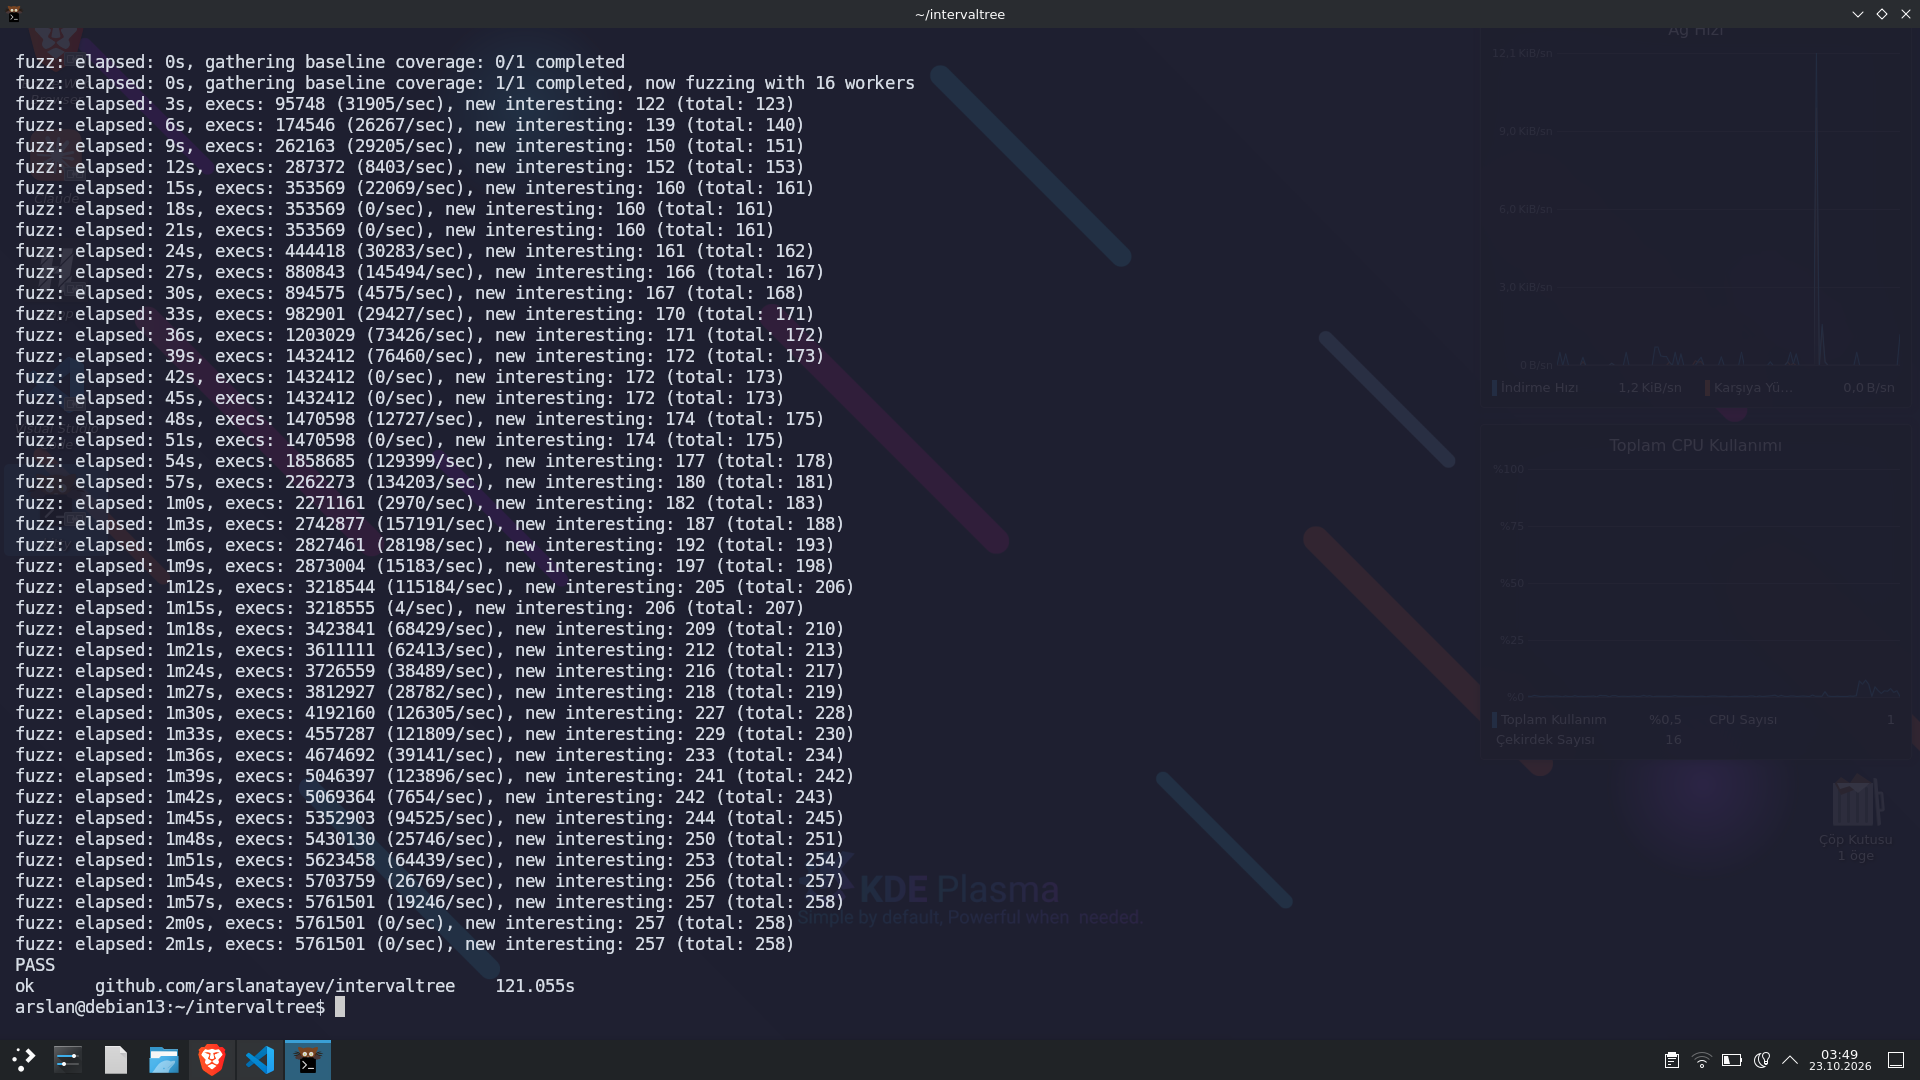
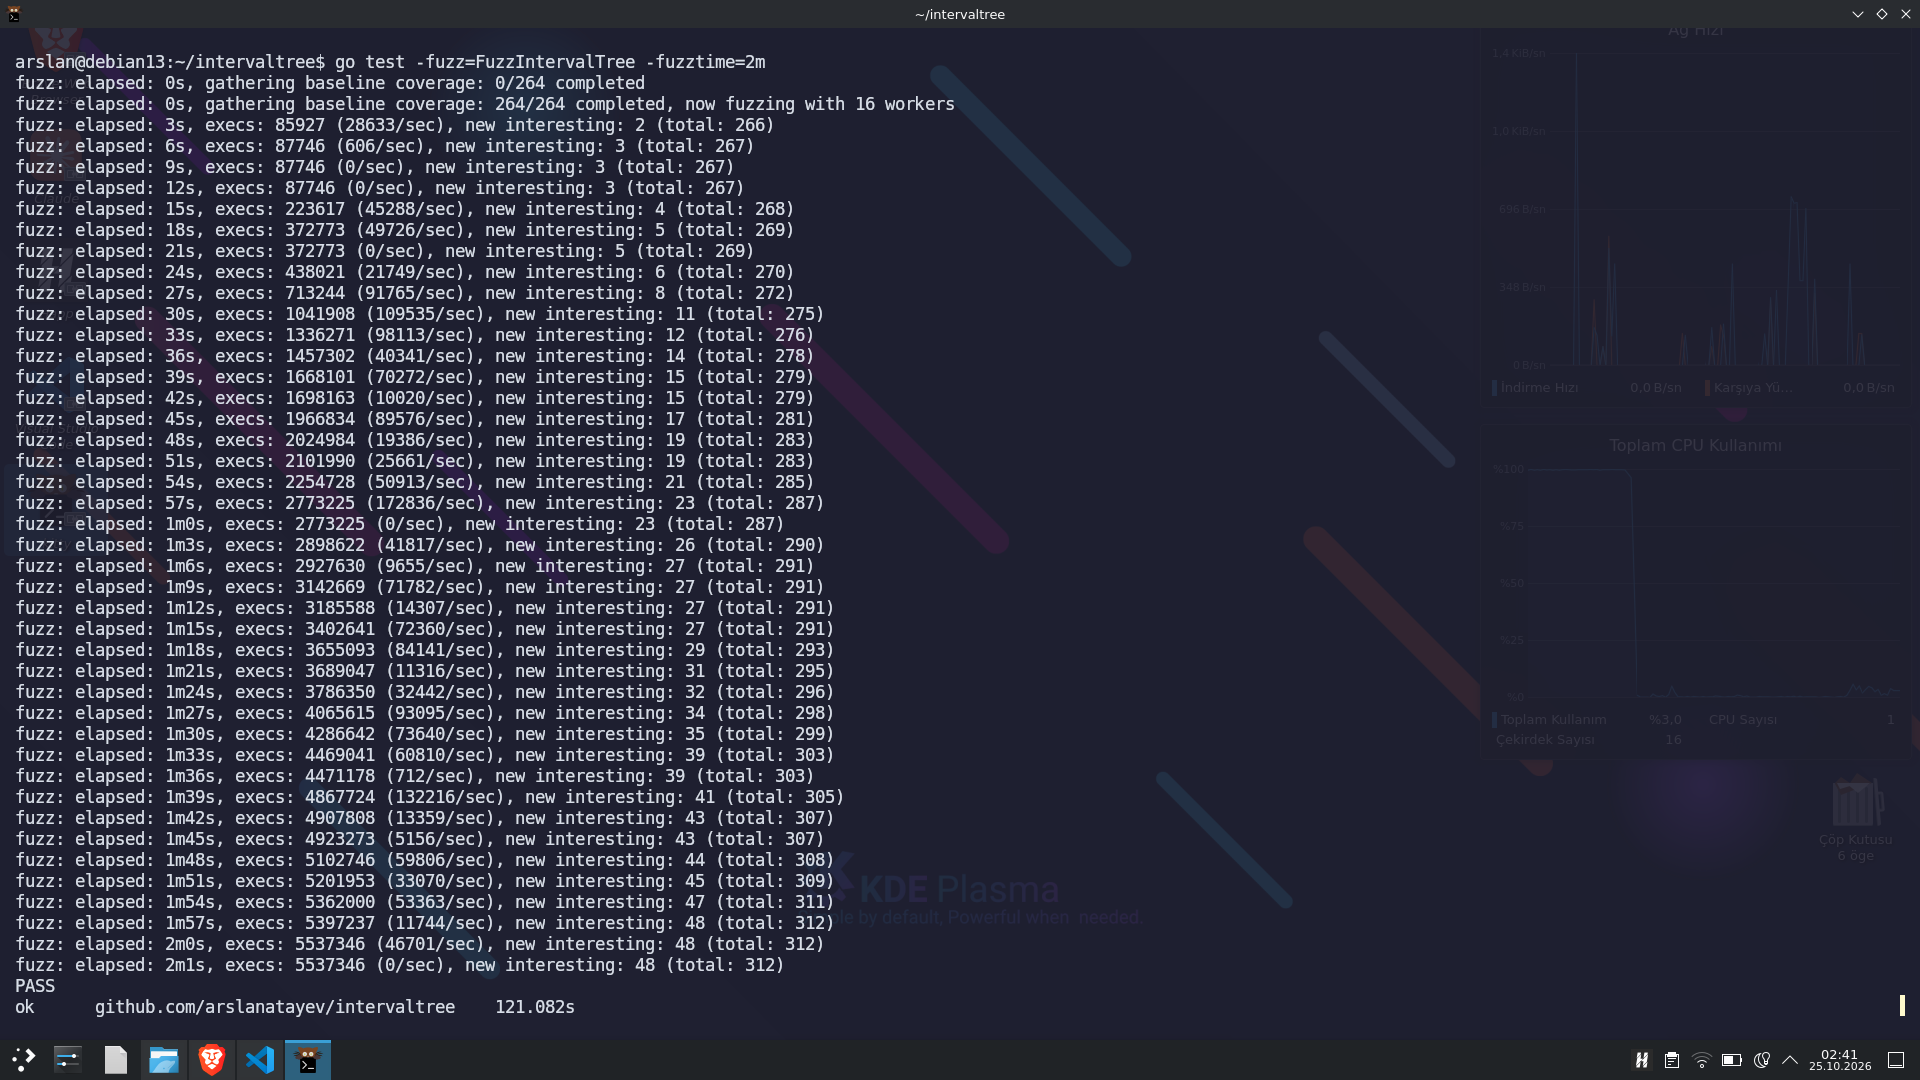
refactor: introduce generic Interval[K] struct and streamline interval handling

Changed region(s): [[0.0, 0.0306, 0.5, 0.9472]]

diff --git a/search.go b/search.go
@@ -2,16 +2,16 @@ package intervaltree
 
 // ExactMatch traverses the tree to determine if an interval matching [start, end] exactly exists.
 func (t *IntervalTree[K]) ExactMatch(start, end K) bool {
+	target := Interval[K]{
+		Start: start,
+		End:   end,
+	}
 	currentIdx := t.RootIdx
 	nodesLen := uint32(len(t.Nodes))
 
 	for currentIdx != noIdx {
-		if currentIdx >= nodesLen {
-			return false
-		}
-
 		node := &t.Nodes[currentIdx]
-		cmp := t.cmpInterval(start, end, node.Start, node.End)
+		cmp := t.cmpIntervals(target, node.Interval)
 		if cmp < 0 {
 			currentIdx = node.LeftIdx
 		} else if cmp > 0 {
@@ -63,17 +63,16 @@ func (t *IntervalTree[K]) Covers(start, end K) bool {
 }
 
 // FindOverlaps searches the tree and returns all intervals that overlap with the query range [start, end].
-func (t *IntervalTree[K]) FindOverlaps(start, end K) (starts []K, ends []K) {
+func (t *IntervalTree[K]) FindOverlaps(start, end K) (intervals []Interval[K]) {
 	if t.RootIdx == noIdx {
-		return starts, ends
+		return intervals
 	}
 
 	var stack [64]uint32
 	stack[0] = t.RootIdx
 	stackIdx := 1
 
-	starts = make([]K, 0, 8)
-	ends = make([]K, 0, 8)
+	intervals = make([]Interval[K], 0, 8)
 
 	for stackIdx > 0 {
 		stackIdx--
@@ -85,8 +84,7 @@ func (t *IntervalTree[K]) FindOverlaps(start, end K) (starts []K, ends []K) {
 		}
 
 		if t.Cmp(node.Start, end) <= 0 && t.Cmp(start, node.End) <= 0 {
-			starts = append(starts, node.Start)
-			ends = append(ends, node.End)
+			intervals = append(intervals, node.Interval)
 		}
 
 		if t.Cmp(node.Start, end) <= 0 && node.RightIdx != noIdx {
@@ -100,19 +98,18 @@ func (t *IntervalTree[K]) FindOverlaps(start, end K) (starts []K, ends []K) {
 		}
 	}
 
-	return starts, ends
+	return intervals
 }
 
-// All traverses the tree in-order and returns two parallel slices containing the start and end keys of all active intervals.
+// All traverses the tree in-order and returns all active intervals containing the start and end keys.
 // It uses an iterative stack to achieve zero-allocation traversal without recursion overhead.
-func (t *IntervalTree[K]) All() (starts []K, ends []K) {
+func (t *IntervalTree[K]) All() (intervals []Interval[K]) {
 	if t.RootIdx == noIdx {
-		return nil, nil
+		return nil
 	}
 
 	capacity := len(t.Nodes) - len(t.FreeIndex)
-	starts = make([]K, 0, capacity)
-	ends = make([]K, 0, capacity)
+	intervals = make([]Interval[K], 0, capacity)
 
 	var stack [64]uint32
 	stackIdx := 0
@@ -128,13 +125,12 @@ func (t *IntervalTree[K]) All() (starts []K, ends []K) {
 		stackIdx--
 		currentIdx = stack[stackIdx]
 
-		starts = append(starts, t.Nodes[currentIdx].Start)
-		ends = append(ends, t.Nodes[currentIdx].End)
+		intervals = append(intervals, t.Nodes[currentIdx].Interval)
 
 		currentIdx = t.Nodes[currentIdx].RightIdx
 	}
 
-	return starts, ends
+	return intervals
 }
 
 // IsEmpty returns true if the tree contains no intervals.
@@ -148,6 +144,6 @@ func (t *IntervalTree[K]) Len() int {
 }
 
 // Stabs returns all intervals that contain the given point.
-func (t *IntervalTree[K]) Stabs(point K) (starts, ends []K) {
+func (t *IntervalTree[K]) Stabs(point K) (intervals []Interval[K]) {
 	return t.FindOverlaps(point, point)
 }

diff --git a/fuzz_test.go b/fuzz_test.go
@@ -146,17 +146,17 @@ func FuzzIntervalTree(f *testing.F) {
 				}
 
 			case 4: // FIND OVERLAPS
-				starts, ends := tree.FindOverlaps(s, e)
+				overlaps := tree.FindOverlaps(s, e)
 				refOverlaps := ref.findOverlaps(s, e)
 
-				if len(starts) != len(refOverlaps) {
-					t.Fatalf("FindOverlaps(%d, %d) size error: Tree=%d, Reference=%d", s, e, len(starts), len(refOverlaps))
+				if len(overlaps) != len(refOverlaps) {
+					t.Fatalf("FindOverlaps(%d, %d) size error: Tree=%d, Reference=%d", s, e, len(overlaps), len(refOverlaps))
 				}
 
 				// Sort overlapping intervals and verify
-				treeIntervals := make([][2]int, len(starts))
-				for i := range starts {
-					treeIntervals[i] = [2]int{starts[i], ends[i]}
+				treeIntervals := make([][2]int, len(overlaps))
+				for i := range overlaps {
+					treeIntervals[i] = [2]int{overlaps[i].Start, overlaps[i].End}
 				}
 				sort.Slice(treeIntervals, func(i, j int) bool {
 					if treeIntervals[i][0] != treeIntervals[j][0] {
@@ -178,15 +178,15 @@ func FuzzIntervalTree(f *testing.F) {
 				}
 
 			case 5: // ALL
-				starts, ends := tree.All()
+				overlaps := tree.All()
 				refAll := ref.all()
 
-				if len(starts) != len(refAll) {
-					t.Fatalf("All() element count mismatch: Tree=%d, Reference=%d", len(starts), len(refAll))
+				if len(overlaps) != len(refAll) {
+					t.Fatalf("All() element count mismatch: Tree=%d, Reference=%d", len(overlaps), len(refAll))
 				}
-				for i := range starts {
-					if starts[i] != refAll[i][0] || ends[i] != refAll[i][1] {
-						t.Fatalf("All() sorting/content mismatch at %d: Tree=[%d,%d], Reference=%v", i, starts[i], ends[i], refAll[i])
+				for i := range overlaps {
+					if overlaps[i].Start != refAll[i][0] || overlaps[i].End != refAll[i][1] {
+						t.Fatalf("All() sorting/content mismatch at %d: Tree=[%d,%d], Reference=%v", i, overlaps[i].Start, overlaps[i].End, refAll[i])
 					}
 				}
 			}
@@ -230,13 +230,13 @@ func verifyTreeInvariants(t *testing.T, tree *IntervalTree[int]) {
 		// 2. BST Ordering verification
 		if node.LeftIdx != noIdx {
 			left := tree.Nodes[node.LeftIdx]
-			if tree.cmpInterval(left.Start, left.End, node.Start, node.End) >= 0 {
+			if tree.cmpIntervals(left.Interval, node.Interval) >= 0 {
 				t.Fatalf("BST rule violation: Left child [%d, %d] >= Root [%d, %d]", left.Start, left.End, node.Start, node.End)
 			}
 		}
 		if node.RightIdx != noIdx {
 			right := tree.Nodes[node.RightIdx]
-			if tree.cmpInterval(right.Start, right.End, node.Start, node.End) <= 0 {
+			if tree.cmpIntervals(right.Interval, node.Interval) <= 0 {
 				t.Fatalf("BST rule violation: Right child [%d, %d] <= Root [%d, %d]", right.Start, right.End, node.Start, node.End)
 			}
 		}

diff --git a/interval.go b/interval.go
@@ -1,53 +1,60 @@
 package intervaltree
 
 // ComputeMerge finds overlapping intervals to remove and computes a single merged range for the new addition.
-func (t *IntervalTree[K]) ComputeMerge(start, end K) (delStarts, delEnds []K, mergedStart, mergedEnd K, isIntersect bool) {
-	starts, ends := t.FindOverlaps(t.Prev(start), t.Next(end))
+func (t *IntervalTree[K]) ComputeMerge(start, end K) (toDelete []Interval[K], merged Interval[K], isIntersect bool) {
+	toDelete = t.FindOverlaps(t.Prev(start), t.Next(end))
 
-	if len(starts) == 0 {
-		return nil, nil, start, end, false
+	if len(toDelete) == 0 {
+		return nil, merged, false
 	}
 
 	newStart := start
 	newEnd := end
 
-	for i := range starts {
-		if t.Cmp(starts[i], newStart) < 0 {
-			newStart = starts[i]
+	for _, interval := range toDelete {
+		if t.Cmp(interval.Start, newStart) < 0 {
+			newStart = interval.Start
 		}
-		if t.Cmp(ends[i], newEnd) > 0 {
-			newEnd = ends[i]
+		if t.Cmp(interval.End, newEnd) > 0 {
+			newEnd = interval.End
 		}
 	}
 
-	return starts, ends, newStart, newEnd, true
+	merged = Interval[K]{
+		Start: newStart,
+		End:   newEnd,
+	}
+
+	return toDelete, merged, true
 }
 
 // ComputeSplit detects intervals to delete and calculates any remaining fragment parts to be re-added.
-func (t *IntervalTree[K]) ComputeSplit(start, end K) (delStarts, delEnds, addStarts, addEnds []K, isIntersect bool) {
-	starts, ends := t.FindOverlaps(start, end)
+func (t *IntervalTree[K]) ComputeSplit(start, end K) (toDelete, toAdd []Interval[K], isIntersect bool) {
+	toDelete = t.FindOverlaps(start, end)
 
-	if len(starts) == 0 {
-		return nil, nil, nil, nil, false
+	if len(toDelete) == 0 {
+		return nil, nil, false
 	}
 
-	l := len(starts)
-	addStarts = make([]K, 0, l*2)
-	addEnds = make([]K, 0, l*2)
+	toAdd = make([]Interval[K], 0, len(toDelete)*2)
 
-	for i := range starts {
-		// left fragment: [starts[i], prev(start)]
-		if t.Cmp(starts[i], start) < 0 {
-			addStarts = append(addStarts, starts[i])
-			addEnds = append(addEnds, t.Prev(start))
+	for _, interval := range toDelete {
+		// left fragment: [interval.Start, prev(start)]
+		if t.Cmp(interval.Start, start) < 0 {
+			toAdd = append(toAdd, Interval[K]{
+				Start: interval.Start,
+				End:   t.Prev(start),
+			})
 		}
 
-		// right fragment: [next(end), ends[i]]
-		if t.Cmp(ends[i], end) > 0 {
-			addStarts = append(addStarts, t.Next(end))
-			addEnds = append(addEnds, ends[i])
+		// right fragment: [next(end), interval.End]
+		if t.Cmp(interval.End, end) > 0 {
+			toAdd = append(toAdd, Interval[K]{
+				Start: t.Next(end),
+				End:   interval.End,
+			})
 		}
 	}
 
-	return starts, ends, addStarts, addEnds, true
+	return toDelete, toAdd, true
 }

diff --git a/mutation.go b/mutation.go
@@ -7,10 +7,13 @@ package intervaltree
 func (t *IntervalTree[K]) Insert(start, end K) {
 	var newIndex uint32
 	var isLeft bool
+	target := Interval[K]{
+		Start: start,
+		End:   end,
+	}
 
 	newNode := Node[K]{
-		Start:     start,
-		End:       end,
+		Interval:  target,
 		MaxEnd:    end,
 		Height:    1,
 		LeftIdx:   noIdx,
@@ -27,7 +30,7 @@ func (t *IntervalTree[K]) Insert(start, end K) {
 	// BST Traversal
 	currentIdx := t.RootIdx
 	for {
-		cmp := t.cmpInterval(start, end, t.Nodes[currentIdx].Start, t.Nodes[currentIdx].End)
+		cmp := t.cmpIntervals(target, t.Nodes[currentIdx].Interval)
 		if cmp < 0 {
 			if t.Nodes[currentIdx].LeftIdx == noIdx {
 				isLeft = true
@@ -90,9 +93,14 @@ func (t *IntervalTree[K]) allocateNode(newNode Node[K]) uint32 {
 func (t *IntervalTree[K]) Delete(start, end K) {
 	var freeIdx uint32
 
+	target := Interval[K]{
+		Start: start,
+		End:   end,
+	}
+
 	currentIdx := t.RootIdx
 	for currentIdx != noIdx {
-		cmp := t.cmpInterval(start, end, t.Nodes[currentIdx].Start, t.Nodes[currentIdx].End)
+		cmp := t.cmpIntervals(target, t.Nodes[currentIdx].Interval)
 		if cmp < 0 {
 			currentIdx = t.Nodes[currentIdx].LeftIdx
 		} else if cmp > 0 {
@@ -172,8 +180,10 @@ func (t *IntervalTree[K]) Delete(start, end K) {
 	var noVal K
 
 	t.Nodes[freeIdx] = Node[K]{
-		Start:     noVal,
-		End:       noVal,
+		Interval:  Interval[K]{
+			Start:     noVal,
+			End:       noVal,
+		},
 		MaxEnd:    noVal,
 		LeftIdx:   noIdx,
 		RightIdx:  noIdx,

diff --git a/tree.go b/tree.go
@@ -9,8 +9,7 @@ const noIdx uint32 = math.MaxUint32
 
 // Node represents a single interval element stored within a contiguous slice backing the tree.
 type Node[K any] struct {
-	Start     K
-	End       K
+	Interval[K]
 	MaxEnd    K
 	LeftIdx   uint32
 	RightIdx  uint32
@@ -27,6 +26,12 @@ type NextFunc[K any] func(a K) K
 
 // PrevFunc returns the immediate predecessor of a key (e.g., a - 1 for integers).
 type PrevFunc[K any] func(a K) K
+
+// Interval represents a closed bounded range [Start, End] where Start <= End.
+type Interval[K any] struct {
+	Start K
+	End   K
+}
 
 // IntervalTree represents a memory-efficient, slice-backed AVL interval tree.
 type IntervalTree[K any] struct {
@@ -57,12 +62,12 @@ func (t *IntervalTree[K]) Reset() {
 	t.RootIdx = noIdx
 }
 
-// cmpInterval compares two intervals [s1, e1] and [s2, e2].
-func (t *IntervalTree[K]) cmpInterval(s1, e1, s2, e2 K) int {
-	if cmp := t.Cmp(s1, s2); cmp != 0 {
+// cmpIntervals compares two intervals 'a' and 'b'.
+func (t *IntervalTree[K]) cmpIntervals(a, b Interval[K]) int {
+	if cmp := t.Cmp(a.Start, b.Start); cmp != 0 {
 		return cmp
 	}
-	return t.Cmp(e1, e2)
+	return t.Cmp(a.End, b.End)
 }
 
 // maxKey compares two keys 'a' and 'b' and returns the greater key based on the configured comparison function.

diff --git a/benchmark_test.go b/benchmark_test.go
@@ -98,7 +98,7 @@ func BenchmarkFindOverlaps(b *testing.B) {
 
 	for i := 0; i < b.N; i++ {
 		s := rng.Intn(1_000_000)
-		_, _ = tree.FindOverlaps(s, s+100)
+		_ = tree.FindOverlaps(s, s+100)
 	}
 }
 
